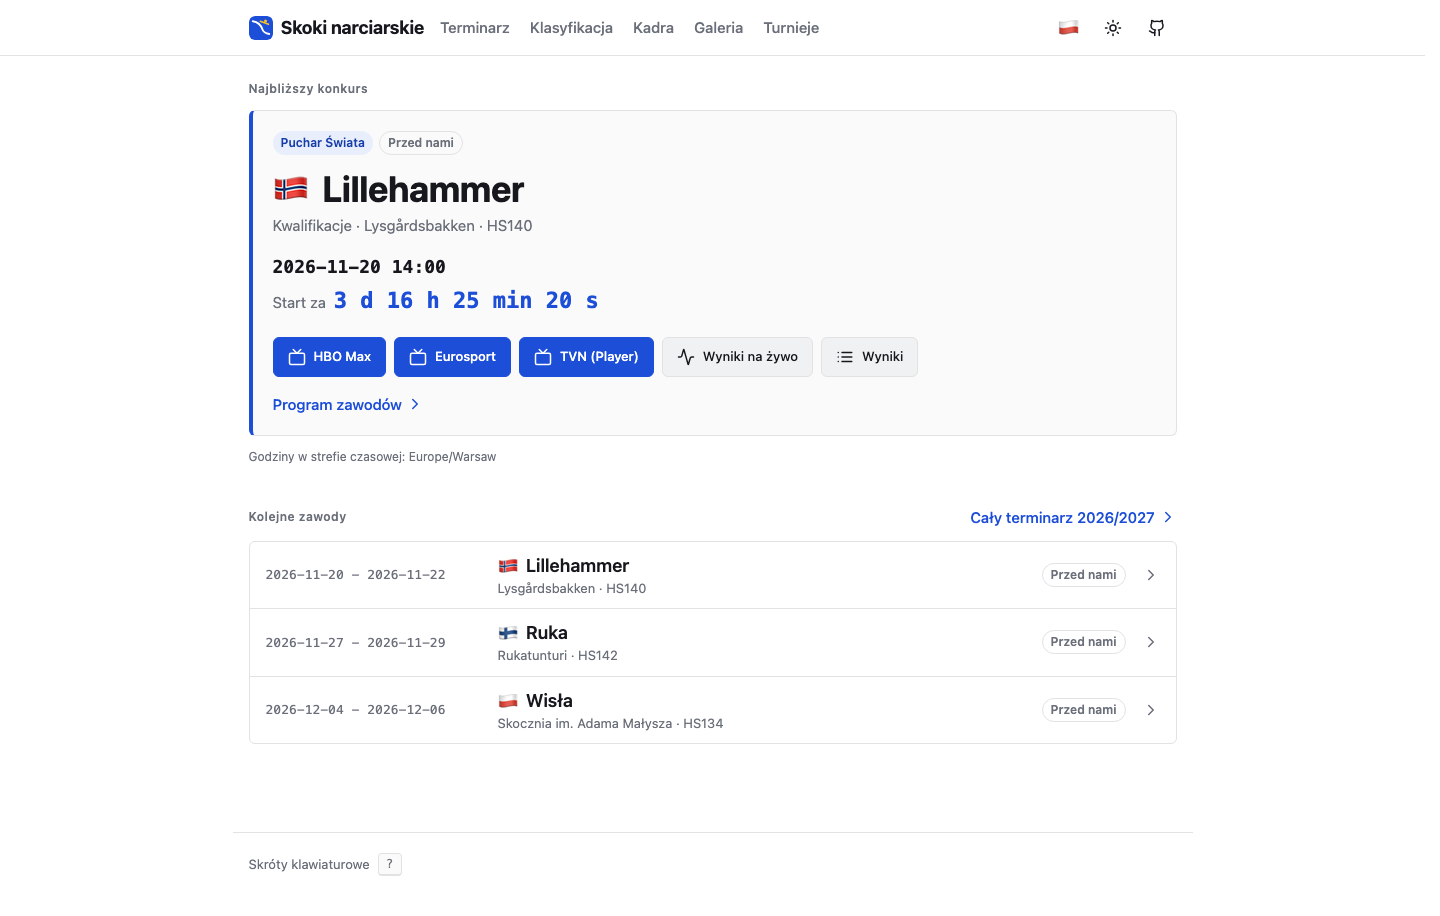
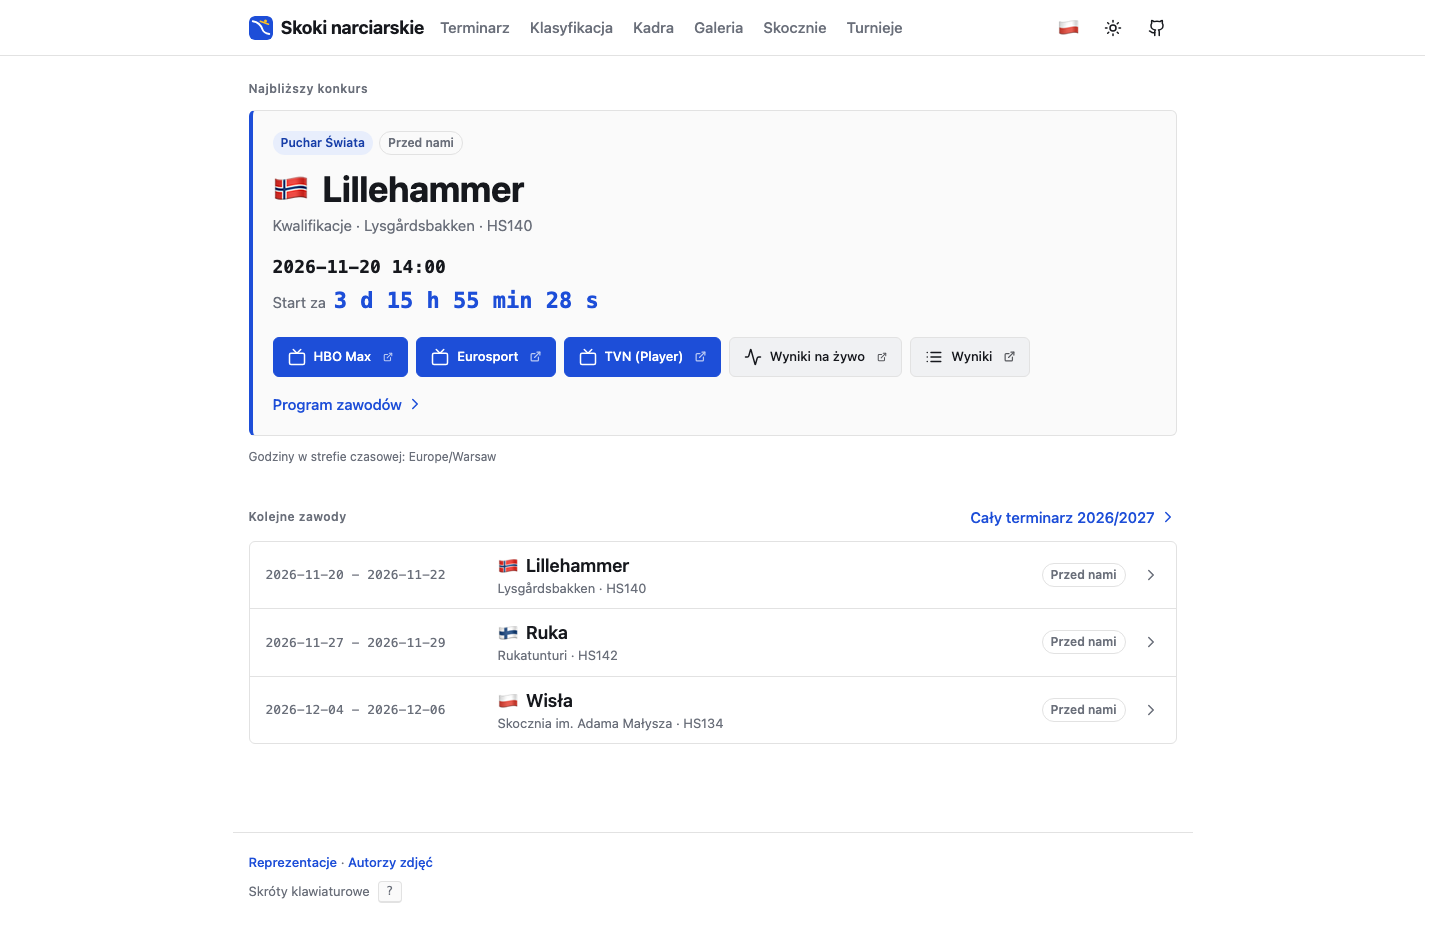
feat: add tournament photos, portraits on podiums and distinct tag colors

diff --git a/e2e/specs/pages.spec.ts b/e2e/specs/pages.spec.ts
@@ -204,12 +204,9 @@ test.describe('tournaments', () => {
     await page.goto('/pl/tournaments/');
 
     await expect(page.locator('.tournament-card')).toHaveCount(6);
-    await expect(page.locator('.tournament-card .banner')).toHaveCount(6);
-    await expect(
-      page.locator(
-        '.tournament-card[data-tournament="planica7"] .banner circle',
-      ),
-    ).toHaveCount(7);
+    await expect(page.locator('.tournament-card .banner--photo')).toHaveCount(
+      6,
+    );
     await expect(
       page.locator('.tournament-card[data-tournament="four-hills"]'),
     ).toContainText('Rozgrywany');
@@ -234,6 +231,7 @@ test.describe('tournaments', () => {
       'Domen Prevc',
     );
     await expect(page.locator('main')).toContainText('systemem KO');
+    await expect(page.locator('.photo__credit')).toContainText('CC BY-SA');
 
     const rows = page.locator('.table__row');
 
@@ -479,6 +477,27 @@ test.describe('hill profiles', () => {
     expect(await page.locator('.table__row').count()).toBeGreaterThanOrEqual(
       18,
     );
+  });
+});
+
+test.describe('event tags', () => {
+  test('championships, Four Hills and ski flying use different colors', async ({
+    page,
+  }) => {
+    await page.goto('/pl/2026-2027/');
+
+    const colorOf = (selector: string) =>
+      page
+        .locator(selector)
+        .first()
+        .evaluate((element) => getComputedStyle(element).backgroundColor);
+    const colors = [
+      await colorOf('.badge--championships'),
+      await colorOf('.badge--four-hills'),
+      await colorOf('.badge--ski-flying'),
+    ];
+
+    expect(new Set(colors).size).toBe(3);
   });
 });
 

diff --git a/src/styles/global.css b/src/styles/global.css
@@ -1413,3 +1413,59 @@ a[href^='http']:not(.icon-button)::after {
   color: var(--pal-text-muted);
   font-variant-numeric: tabular-nums;
 }
+
+.banner--photo {
+  height: auto;
+  object-fit: cover;
+}
+
+.banner-frame {
+  margin-bottom: 0;
+}
+
+.banner-frame .banner--photo {
+  aspect-ratio: 3 / 1;
+}
+
+.podium__place {
+  display: inline-flex;
+  align-items: center;
+  gap: 0.375rem;
+}
+
+.podium .avatar {
+  width: 1.75rem;
+  height: 1.75rem;
+}
+
+/* Every kind of special event has its own tag color:
+   World Championships purple, Four Hills gold, ski flying teal. */
+
+:root {
+  --purple-soft: #f1e8fd;
+  --purple-on-soft: #5b21b6;
+  --teal-soft: #dcf5f0;
+  --teal-on-soft: #0f5f55;
+}
+
+:root[data-theme='dark'] {
+  --purple-soft: #33214f;
+  --purple-on-soft: #d4b8ff;
+  --teal-soft: #123a36;
+  --teal-on-soft: #7fe0d0;
+}
+
+.badge--championships {
+  background: var(--purple-soft);
+  color: var(--purple-on-soft);
+}
+
+.badge--four-hills {
+  background: var(--gold-soft);
+  color: var(--gold-on-soft);
+}
+
+.badge--ski-flying {
+  background: var(--teal-soft);
+  color: var(--teal-on-soft);
+}

diff --git a/src/lib/tournaments.ts b/src/lib/tournaments.ts
@@ -1,3 +1,4 @@
+import type { ImageMetadata } from 'astro';
 import { z } from 'zod';
 import rawTournaments from '../data/tournaments.json';
 import { tournamentSchema, type Tournament } from './schema';
@@ -18,4 +19,17 @@ export function getEventTournaments(
   return tournaments.filter((tournament) =>
     (tournament.events[seasonId] ?? []).includes(eventSlug),
   );
+}
+
+const photos = import.meta.glob<ImageMetadata>(
+  '../assets/tournaments/*.{jpg,jpeg,png,webp}',
+  { eager: true, import: 'default' },
+);
+
+export function getTournamentPhoto(
+  tournament: Tournament,
+): ImageMetadata | undefined {
+  return tournament.photo
+    ? photos[`../assets/tournaments/${tournament.photo.file}`]
+    : undefined;
 }

diff --git a/src/lib/schema.ts b/src/lib/schema.ts
@@ -206,6 +206,17 @@ export const tournamentSchema = z.object({
     accent: z.string().regex(/^#[0-9a-f]{6}$/),
     marks: z.number().int().min(1).max(8),
   }),
+  // Freely licensed photo (Wikimedia Commons) in src/assets/tournaments;
+  // without one the drawn banner is used.
+  photo: z
+    .object({
+      file: z.string().min(1),
+      author: z.string().min(1),
+      license: z.string().min(1),
+      sourceUrl: z.url(),
+    })
+    .nullable()
+    .default(null),
   // Host cities in tournament order.
   hosts: z.array(z.string().min(1)).min(1),
   // Events of a season that belong to the tournament, keyed by season id.

diff --git a/MEMORY.md b/MEMORY.md
@@ -15,6 +15,9 @@ Fakty o TYM repozytorium, których nie widać w kodzie ani w historii gita.
 - [2026-11-16] [projekt] Profile turniejów (`src/data/tournaments.json`) są z polskiej i angielskiej Wikipedii. Raw Air ma status `paused`: oficjalnie nie odbył się w 2026, a brak w kalendarzu 2026/27 wynika tylko z tego, że nie ma go w kalendarzu FIS ani w haśle Wikipedii o sezonie. Dla TCS jest podany tylko zwycięzca (tabela Wikipedii nie ma podium klasyfikacji końcowej).
 - [2026-11-16] [projekt] Dane skoczni (`src/data/hills.json`) są z skisprungschanzen.com i Wikipedii; rekord to oficjalny rekord mężczyzn, dłuższe nieoficjalne skoki są w ciekawostkach. Pojemności trybun różnią się między źródłami nawet o kilkadziesiąt procent, dlatego UI pokazuje je z dopiskiem "ok.".
 - [2026-11-16] [referencja] FIS odpowiada 429 po ok. 55 zapytaniach w tempie 1/s; `scripts/import-season.ts` robi 1 zapytanie na 3 s, czeka 60 s po 429 i trzyma cache w `tmp/fis-cache/`. W wynikach konkursów drużynowych wiersze zawodników nie mają pogrubionej pozycji, po tym parser odróżnia je od wierszy drużyn. Nazwiska z FIS są w ASCII ("Jan Hoerl", "Anze Lanisek").
+- [2026-11-16] [projekt] User prosił o "rzeczywiste zdjęcia promocyjne" turniejów i portrety zawodników. Oficjalnych materiałów promocyjnych ani zdjęć z FIS nie używamy (prawa autorskie, strona jest publiczna); wszystko jest z Wikimedia Commons na wolnych licencjach, z atrybucją na `/credits/`. Skrypty pobierające: `tmp/photos.py`, `tmp/avatars.py`, `tmp/tphotos.py` (poza repo).
+- [2026-11-16] [referencja] Wikimedia (API i `upload.wikimedia.org`) odpowiada 429 po kilkudziesięciu pobraniach z rzędu; przerwa 60 s i ponowienie wystarcza.
+- [2026-11-16] [referencja] Test e2e, który wciska skrót klawiszowy zaraz po nawigacji, musi poczekać na `page.waitForLoadState('load')`: `toHaveURL` przechodzi, zanim skrypt strony podepnie obsługę klawiszy (wyszło, gdy strona kadry dostała portrety).
 - [2026-11-16] [referencja] API Wikipedii odpowiada 429 po kilkunastu zapytaniach `action=parse` w krótkim czasie; robić przerwy albo łączyć tytuły w jednym zapytaniu `action=query`.
 - [2026-11-16] [referencja] Treści z apostrofami albo backtickami (TS, Python) nie przechodzą przez `bash -c '...'` z heredokiem: powłoka zjada cudzysłowy. Skrypty pomocnicze zapisywać narzędziem Write do `tmp/` i dopiero uruchamiać.
 - [2026-11-16] [referencja] `slot` jest w Astro zarezerwowanym atrybutem (nazwane sloty): prop komponentu o tej nazwie daje błąd typu `string & Slot`. Stąd `timeSlot` w `SlotTime.astro`.

diff --git a/CONTRIBUTING.md b/CONTRIBUTING.md
@@ -54,6 +54,9 @@ Trasy:
 - `/[lang]/[season]/polish-team/` - kadry A i B ze sztabem
 - `/[lang]/[season]/gallery/` - galeria odręcznych programów
 - `/[lang]/tournaments/` i `/[lang]/tournaments/[slug]/` - lista i profile turniejów
+- `/[lang]/hills/` i `/[lang]/hills/[slug]/` - lista (z mapą i grupowaniem według kraju) i profile skoczni
+- `/[lang]/nations/` i `/[lang]/nations/[kod]/` - reprezentacje
+- `/[lang]/credits/` - autorzy zdjęć
 
 ## Dane sezonu
 
@@ -113,6 +116,24 @@ Pole `officials` wydarzenia w pliku sezonu: `role` (`technical-delegate`, `techn
 ## Turnieje
 
 `src/data/tournaments.json` opisuje turnieje rozgrywane w ramach Pucharu Świata: `status` (`active`, `paused`, `ended`), gospodarzy, zasady, nagrody, podium ostatnich edycji i pole `events` z listą zawodów turnieju w danym sezonie (`{ "2026-2027": ["oberstdorf", ...] }`). Po sezonie dopisz nową edycję do `winners`, a przy nowym sezonie uzupełnij `events`. Miejsce na podium bez `name` oznacza reprezentację kraju.
+
+## Zdjęcia i portrety
+
+Wszystkie zdjęcia pochodzą z Wikimedia Commons i są na wolnych licencjach. Autor, licencja i adres źródła są zapisane przy każdym pliku, a strona `/[lang]/credits/` wypisuje je wszystkie.
+
+- skocznie: `src/assets/hills/`, opis w polu `photo` w `src/data/hills.json`
+- turnieje: `src/assets/tournaments/`, pole `photo` w `src/data/tournaments.json`; bez zdjęcia pokazywany jest rysowany baner
+- osoby: `src/assets/people/`, indeks w `src/data/avatars.json` pod kluczem z nazwiska bez znaków diakrytycznych (`piotr zyla`); osoba bez zdjęcia dostaje kółko z inicjałami
+
+Portret trafia do indeksu tylko wtedy, gdy krótki opis hasła w Wikipedii potwierdza, że chodzi o skoczka albo trenera, żeby nie pokazać imiennika.
+
+## Reprezentacje
+
+Strony `/[lang]/nations/` i `/[lang]/nations/[kod]/` nie mają własnych danych: `src/lib/nations.ts` sumuje punkty z plików klasyfikacji (od 2000/2001), liczy Kryształowe Kule, zwycięstwa w turniejach oraz zwycięstwa, podia i wyniki drużynowe z zaimportowanych sezonów.
+
+## Mapy
+
+Mapy rysuje Leaflet na kafelkach OpenStreetMap (`src/scripts/map.ts`). Współrzędne skoczni są w `src/data/hills.json` (`lat`, `lon`); zawody bez danych skoczni nie trafiają na mapę terminarza.
 
 ## Galeria odręcznych programów
 

diff --git a/README.md b/README.md
@@ -12,9 +12,11 @@ Serwis kibica Pucharu Świata w skokach narciarskich: kiedy jest najbliższy kon
 - 🗓 Terminarz sezonu: Puchar Świata mężczyzn i Mistrzostwa Świata, z programem każdych zawodów
 - 📺 Linki do polskich nadawców i do wyników na żywo w serwisie FIS
 - 🗄 Archiwum trzech poprzednich sezonów z podium każdego konkursu
-- 🏆 Klasyfikacja generalna od sezonu 2020/2021 _(z filtrem "Tylko Polacy")_
+- 🏆 Klasyfikacja generalna od sezonu 2000/2001 _(z filtrem "Tylko Polacy")_
 - 🥇 Profile turniejów: Turniej Czterech Skoczni, Raw Air, Planica7 i inne, z zasadami i zwycięzcami
-- 🏔 Karty skoczni: punkt K, rozmiar, rekord, parametry profilu i ciekawostki
+- 🏔 Profile skoczni ze zdjęciem: punkt K, rozmiar, rekord, parametry profilu, ciekawostki i rozegrane konkursy
+- 🗺 Mapy miejsc zawodów i wszystkich skoczni
+- 🌐 Strony reprezentacji: punkty, trofea i wyniki drużynowe zawodników każdego kraju
 - 🧑🏫 Kadry Polski A i B ze sztabem szkoleniowym
 - ⚖ Sędziowie i delegaci techniczni zawodów
 - 🖼 Galeria odręcznych programów na każdy weekend
@@ -31,6 +33,7 @@ Serwis kibica Pucharu Świata w skokach narciarskich: kiedy jest najbliższy kon
 - kadry Polski: [Polski Związek Narciarski](https://www.pzn.pl/skoki-narciarskie)
 - skocznie: [skisprungschanzen.com](https://www.skisprungschanzen.com/)
 - turnieje: Wikipedia
+- zdjęcia: Wikimedia Commons, z listą autorów na stronie "Autorzy zdjęć"
 - odręczne programy: [autor kartek z terminarzem](https://www.facebook.com/profile.php?id=100064595445494)
 
 ## Rozwój 🛠
